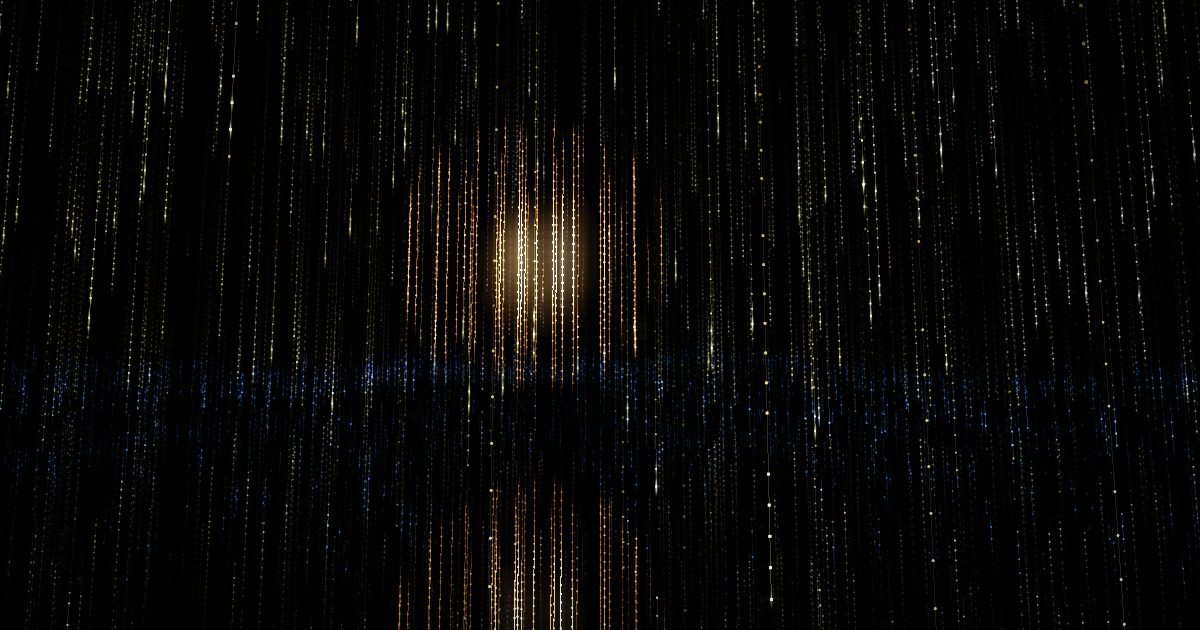
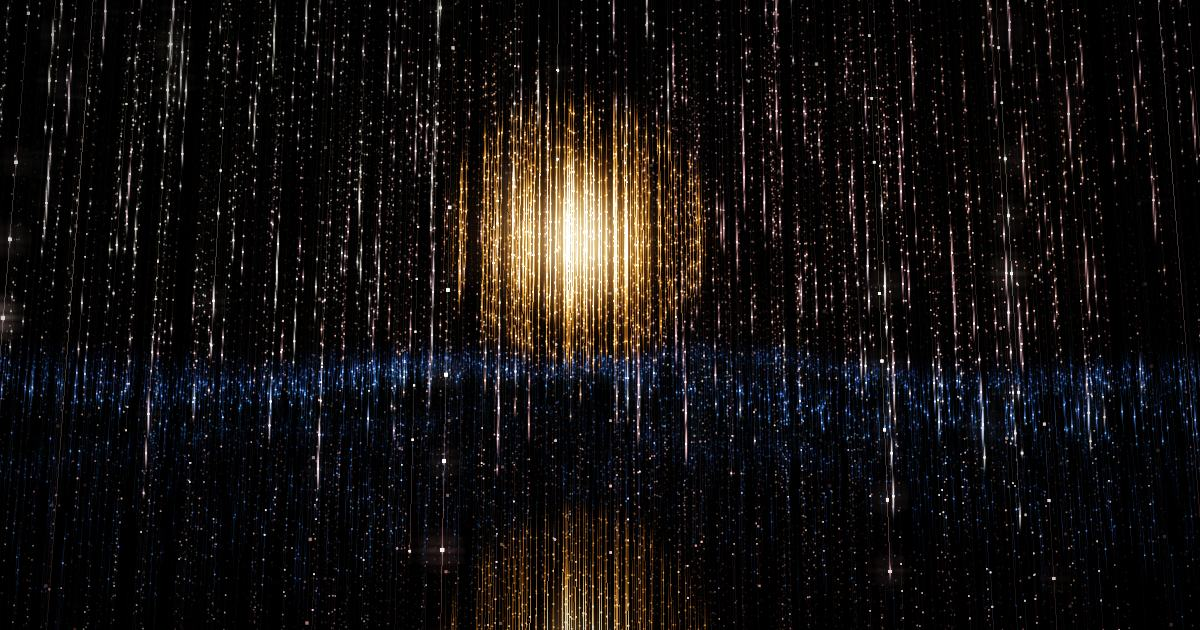
Media made again on the current look: share picture and four README GIFs
og-image.jpg (orb centred, 176 KB), rain, spiral, knot and veil GIFs captured
with the current lattice, rays and in-place forms; the rain scene uses seed 5
(violet, magenta and teal). README alt texts say the pink layer where it is
pink.

Claude-Session: https://claude.ai/code/session_0164gFYjuuY4e2f6YPbyiUFR

diff --git a/README.md b/README.md
@@ -12,16 +12,16 @@ ripple of light rings a bell.
 
 <table>
   <tr>
-    <td align="center"><img src="docs/rain.gif" alt="Rain of light: drops in drifting clouds of magenta, violet and teal fall along strands of light points, over their dimmer image in the mirror floor" width="100%"><br><sub>rain of light</sub></td>
-    <td align="center"><img src="docs/storm.gif" alt="Amber rain of light falls around an orb of amber light and gives way to it; the floor mirrors both" width="100%"><br><sub>rain falling through a form</sub></td>
+    <td align="center"><img src="docs/rain.gif" alt="Rain of light: drops in drifting clouds of violet, magenta and teal fall in close rows along strands of light points" width="100%"><br><sub>rain of light</sub></td>
+    <td align="center"><img src="docs/storm.gif" alt="Pale rain of light falls around an orb of amber light, over a pink layer of light; the floor mirrors both" width="100%"><br><sub>rain falling through a form</sub></td>
   </tr>
   <tr>
-    <td align="center"><img src="docs/orb.gif" alt="An orb of amber light, pale at its heart, glows in the still room above a mirror floor, with a thin blue layer of light along the floor" width="100%"><br><sub>an orb in the still room, with the layer</sub></td>
+    <td align="center"><img src="docs/orb.gif" alt="An orb of amber light, pale at its heart, glows in the still room above a mirror floor, with a thin pink layer of light along the floor" width="100%"><br><sub>an orb in the still room, with the layer</sub></td>
     <td align="center"><img src="docs/spiral.gif" alt="A spiral of pale blue light turns slowly above a green layer of light and is mirrored in the floor" width="100%"><br><sub>a spiral</sub></td>
   </tr>
   <tr>
     <td align="center"><img src="docs/knot.gif" alt="A knot of green light, one closed line in a figure of eight woven in depth, with two lights running round it, above a pink layer of light and its image in the mirror floor" width="100%"><br><sub>a knot</sub></td>
-    <td align="center"><img src="docs/veil.gif" alt="A veil of green light like an aurora: rays of many heights rise from a bright wavy hem, above a blue layer of light and its image in the floor" width="100%"><br><sub>a veil</sub></td>
+    <td align="center"><img src="docs/veil.gif" alt="A veil of green light like an aurora: rays of many heights rise from a bright wavy hem, above a pink layer of light and its image in the floor" width="100%"><br><sub>a veil</sub></td>
   </tr>
 </table>
 

diff --git a/docs/development.md b/docs/development.md
@@ -189,7 +189,7 @@ list.
 The share picture, `og-image.jpg` (1200x630, named in `index.html`), is
 made with the same tool, from a list of its own given by `DOC_SHOTS=`: one
 figure, `"w": 1200, "h": 675`, one cell with the query
-`scene=mix&form=orb&layer=on&weather=drizzle&color=cloud&seed=8&t=30`
+`scene=mix&form=orb&layer=on&weather=drizzle&color=cloud&seed=7&t=30`
 (plus `dpr=1&quality=full&ripples=0&breath=off`), cut to its middle 630
 rows. A bigger capture looks sparser, not sharper: near LEDs are capped at
 Largest size, which is in pixels.
